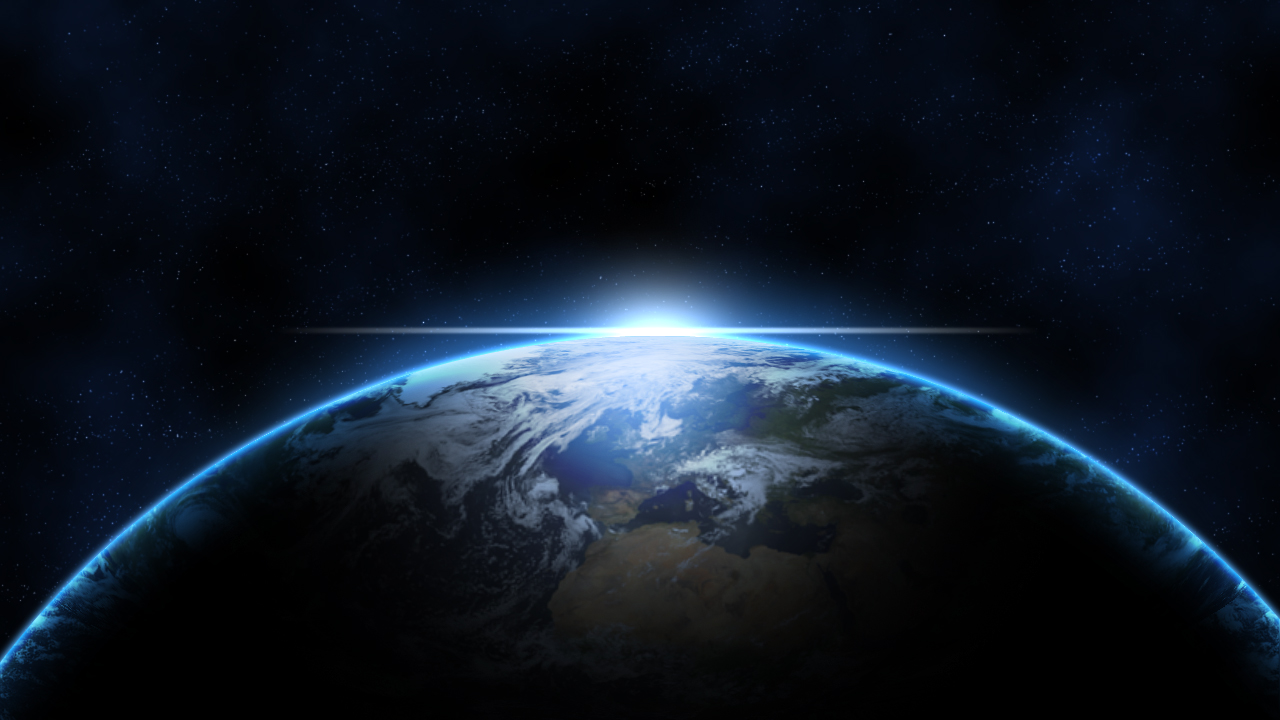
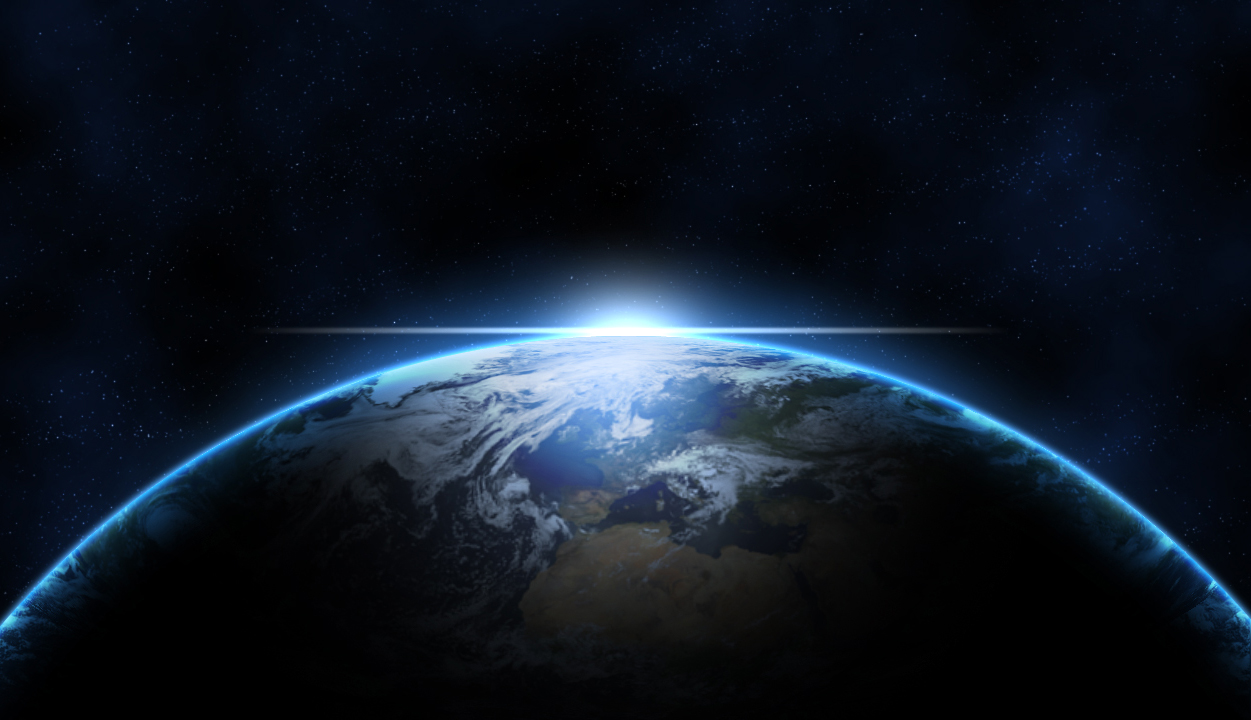
Fixed position of Introduction

Changed region(s): [[0.0, 0.3972, 0.9664, 0.9778], [0.8106, 0.2139, 0.8417, 0.2444]]

diff --git a/index.html b/index.html
@@ -94,7 +94,7 @@
         <div class="intro-body">
             <div class="container">
                 <div class="row">
-                    <div class="col-md-8 col-md-offset-2">
+                    <div class="col-md-8 col-md-offset-2 introduction">
                         <h1 class="brand-heading">US1 Travel</h1>
                         <p class="intro-text">travel travel travel travel travel travel travel travel travel.</p>
                     </div>
@@ -103,34 +103,15 @@
         </div>
     </section>
 
-
-
-
-
     <aside class="calling-card">
 
       <p class = "calling-card">example@us1travel.com <br />
         (310) 582-0099 <br />
         1821 Wilshire Blvd, CA 90403 <br />
         Office Hours 9am - 5pm PST</p>
-
         
     </aside>
-
-<!--
-    <div id="map"></div>
-
-    <!-- Core JavaScript Files -->
-    <script src="https://ajax.googleapis.com/ajax/libs/jquery/1.10.2/jquery.min.js"></script>
-    <script src="http://netdna.bootstrapcdn.com/bootstrap/3.0.3/js/bootstrap.min.js"></script>
-    <script src="http://cdnjs.cloudflare.com/ajax/libs/jquery-easing/1.3/jquery.easing.min.js"></script>
-
-    <!-- Google Maps API Key - You will need to use your own API key to use the map feature -->
-    <script type="text/javascript" src="https://maps.googleapis.com/maps/api/js?key=AIzaSyCRngKslUGJTlibkQ3FkfTxj3Xss1UlZDA&sensor=false"></script>
-
-    <!-- Custom Theme JavaScript -->
-    <script src="js/grayscale.js"></script>
-
+    
 </body>
 
 </html>

diff --git a/css/grayscale.css b/css/grayscale.css
@@ -1,7 +1,7 @@
 body {
     width: 100%;
     height: 100%;
-    font-family: Lora,"Helvetica Neue",Helvetica,Arial,sans-serif;
+
     color: #fff;
     background-color: #000;
 }
@@ -85,7 +85,7 @@ a:focus {
 
 @media(min-width:767px) {
     .navbar {
-        padding: 25px 0px 0px 0px; /* 20x creates 20 pixels of space from the top */ 
+        padding: 15px 0px 0px 0px; /* 20x creates 20 pixels of space from the top */ 
         border-bottom: 0; /* the zero gets rid of a small border line that would appear at the bottom of the div */
         letter-spacing: 1px; /* Spacing between letters */
         background: 0 0;
@@ -99,23 +99,15 @@ a:focus {
 
 .intro {
     display: table;
-    width: 100%;
-    height: auto;
     padding: 100px 0;
+    width: 100%;
     text-align: center;
     color: #fff; /* color for intro text */
-    
     background: url(../img/bg/earth.jpg) no-repeat bottom center scroll;
-    background-color: #000;
-    -webkit-background-size: cover;
-    -moz-background-size: cover;
-    background-size: cover;
-    -o-background-size: cover;
 }
 
 .intro-body {
-    
-    display: table-cell;
+
     vertical-align: middle;
 }
 
@@ -127,10 +119,10 @@ a:focus {
     font-size: 18px;
 }
 
+
 @media(min-width:767px) {
     .intro {
         height: 100%;
-        padding: 0;
     }
 
     .brand-heading {
